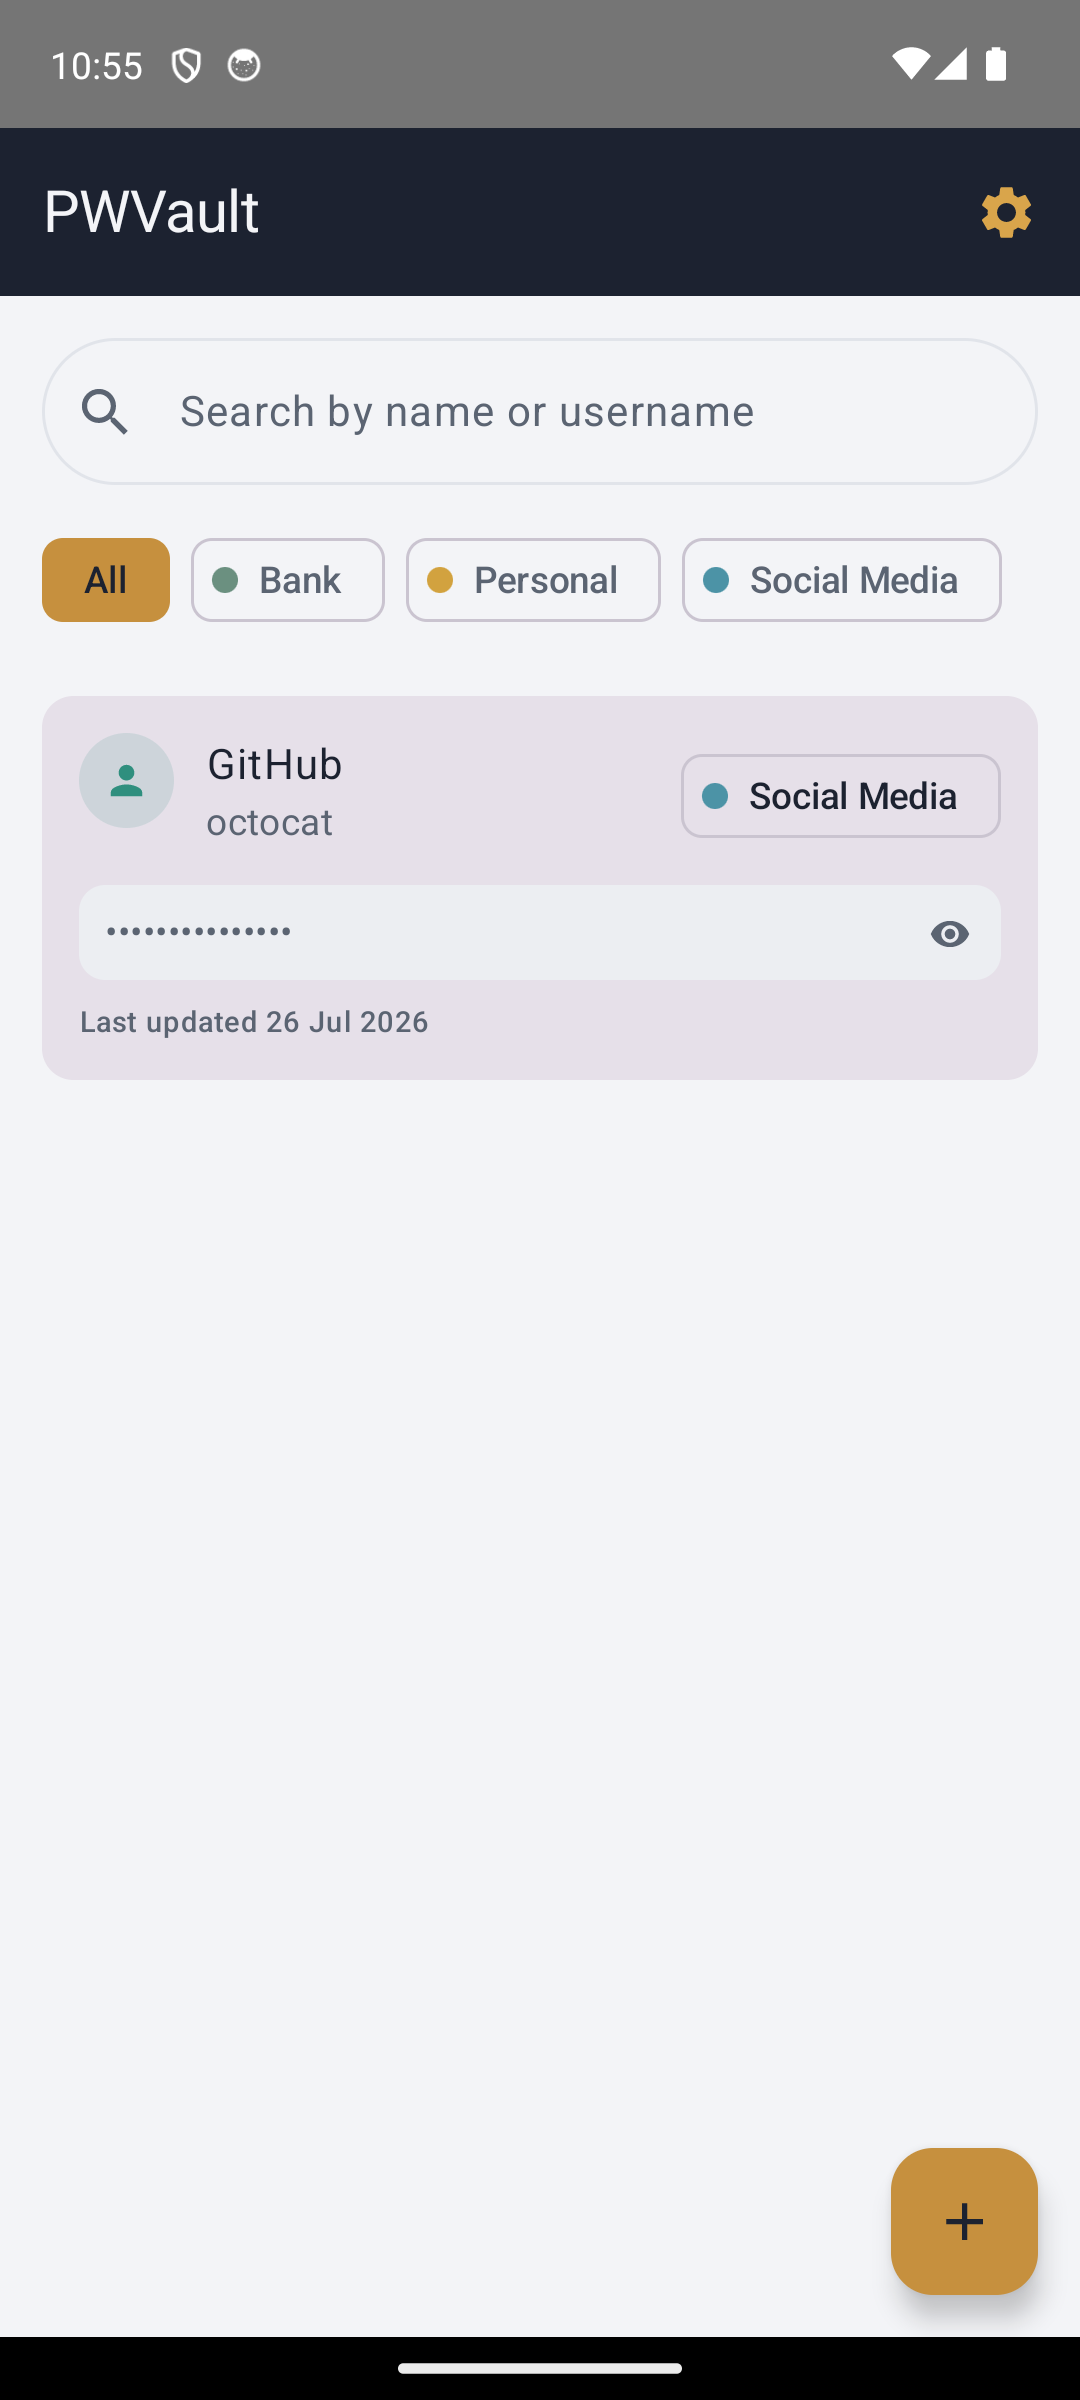
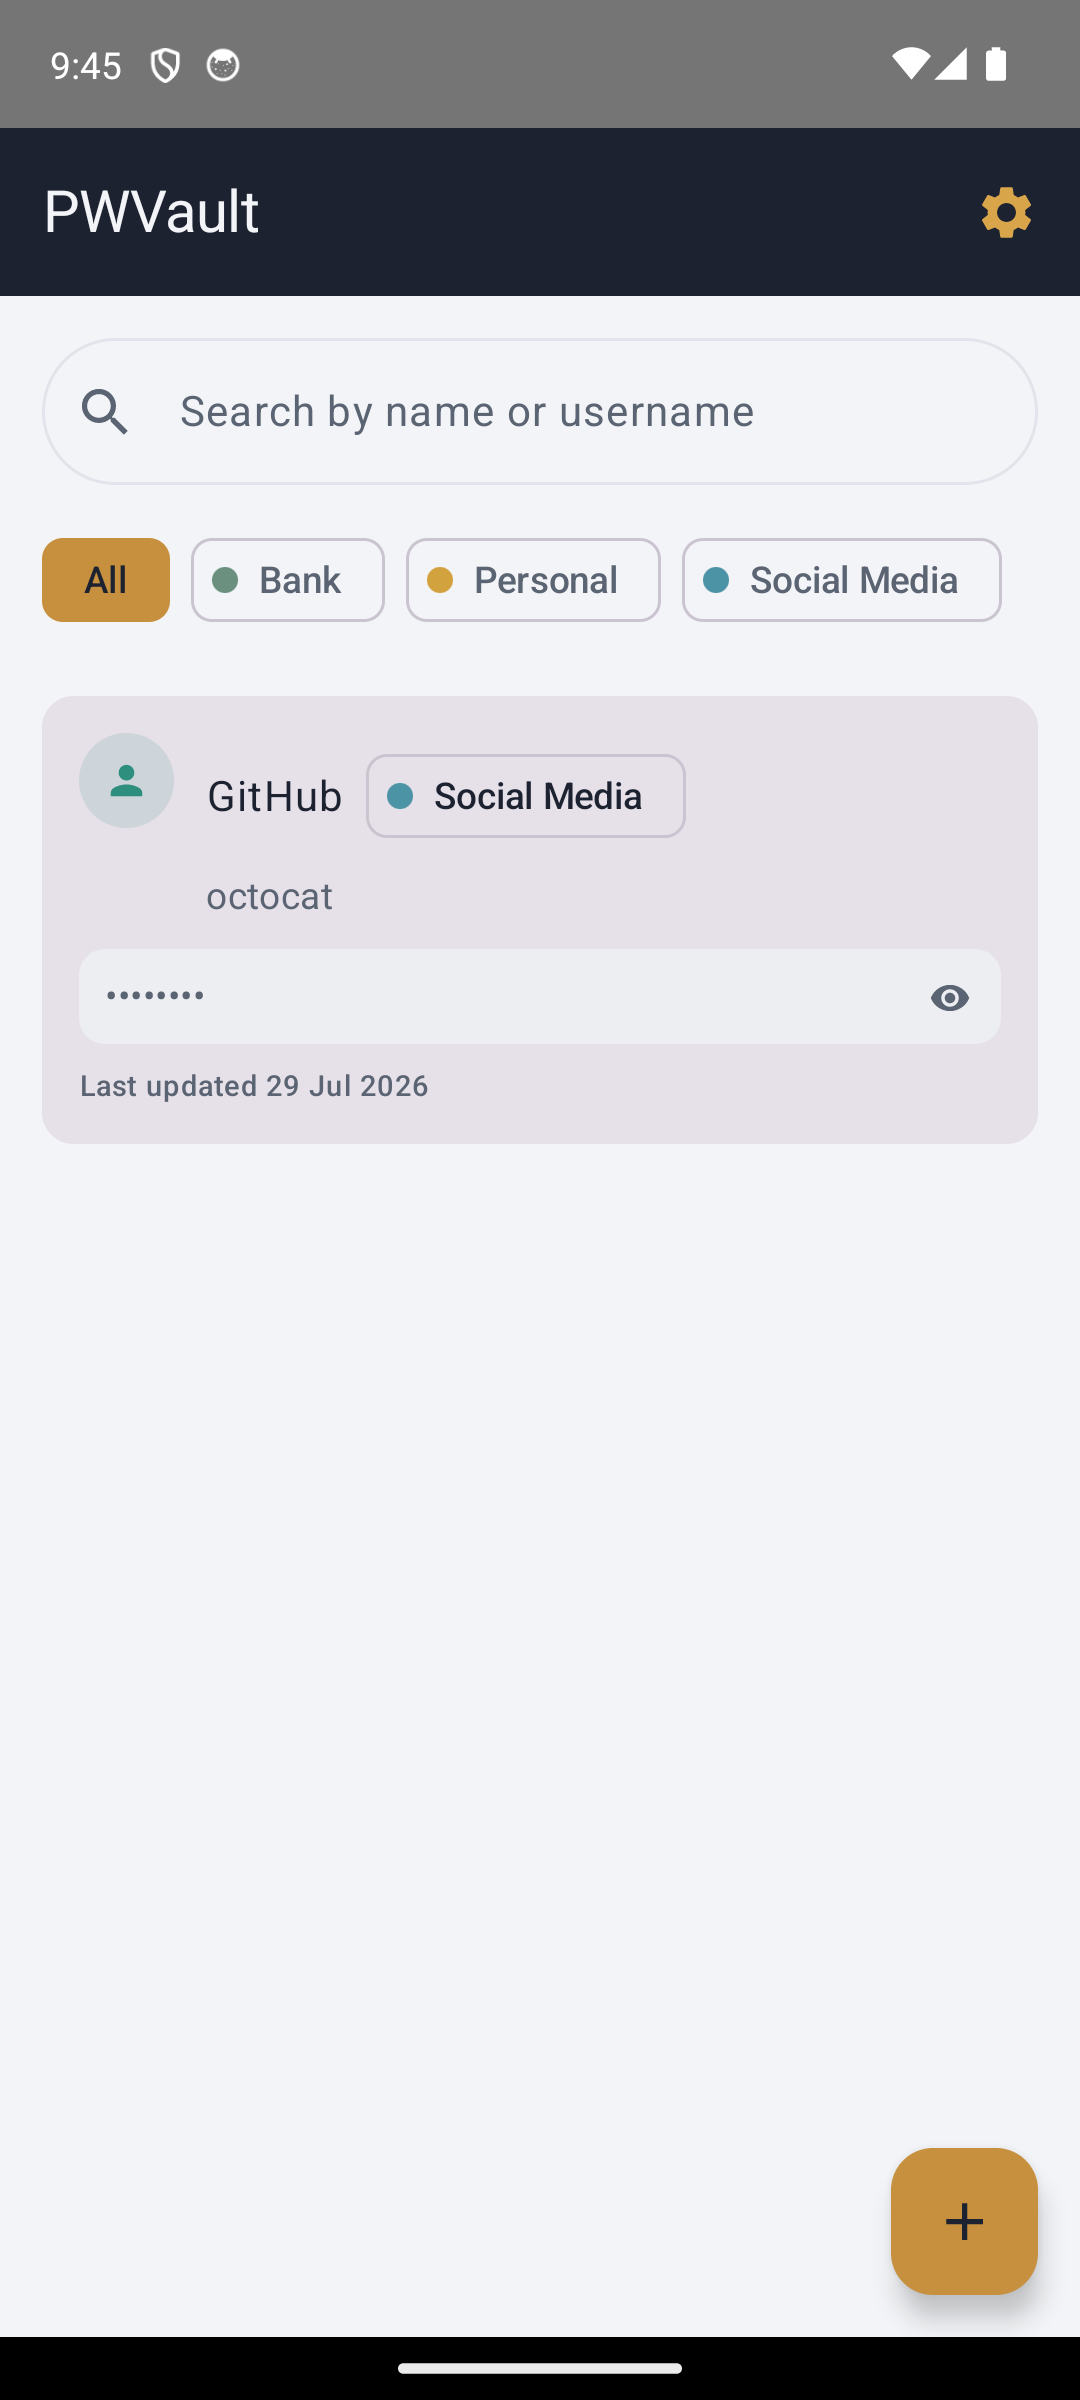
fix: enforce single tag per vault item, restore same-row list layout

diff --git a/app/src/main/java/com/pwvault/app/ui/vault/VaultViewModel.kt b/app/src/main/java/com/pwvault/app/ui/vault/VaultViewModel.kt
@@ -54,7 +54,7 @@ sealed interface VaultUiState {
         val editingId: Long? = null,
         val initial: VaultItem? = null,
         val availableTags: List<Tag> = emptyList(),
-        val selectedTagIds: Set<Long> = emptySet(),
+        val selectedTagId: Long? = null,
         val error: VaultFormError? = null,
         val busy: Boolean = false,
     ) : VaultUiState
@@ -142,7 +142,7 @@ class VaultViewModel
                 if (tagFilterIds.isEmpty()) {
                     searchFiltered
                 } else {
-                    searchFiltered.filter { item -> item.tags.any { it.id in tagFilterIds } }
+                    searchFiltered.filter { item -> item.tag?.id?.let { it in tagFilterIds } ?: false }
                 }
             return VaultUiState.ItemList(
                 items = tagFiltered,
@@ -175,15 +175,14 @@ class VaultViewModel
                     editingId = item.id,
                     initial = item,
                     availableTags = availableTags,
-                    selectedTagIds = item.tags.map { it.id }.toSet(),
+                    selectedTagId = item.tag?.id,
                 )
         }
 
-        fun toggleTagSelected(tagId: Long) {
+        fun selectTag(tagId: Long) {
             val form = _state.value as? VaultUiState.ItemForm ?: return
-            val selected =
-                if (tagId in form.selectedTagIds) form.selectedTagIds - tagId else form.selectedTagIds + tagId
-            _state.value = form.copy(selectedTagIds = selected)
+            val selected = if (form.selectedTagId == tagId) null else tagId
+            _state.value = form.copy(selectedTagId = selected)
         }
 
         fun openDetail(item: VaultItem) {
@@ -224,6 +223,7 @@ class VaultViewModel
             viewModelScope.launch {
                 val now = System.currentTimeMillis()
                 val existing = form.initial
+                val selectedTag = form.availableTags.find { it.id == form.selectedTagId }
                 val itemId =
                     if (existing != null) {
                         // Type is fixed once an item is created — always keep existing.type here,
@@ -235,6 +235,7 @@ class VaultViewModel
                                 password = input.password,
                                 url = input.url,
                                 note = input.note,
+                                tag = selectedTag,
                                 updatedAt = now,
                             ),
                         )
@@ -252,12 +253,12 @@ class VaultViewModel
                                 password = if (isNote) "" else input.password,
                                 url = if (isNote) "" else input.url,
                                 note = input.note,
+                                tag = selectedTag,
                                 createdAt = now,
                                 updatedAt = now,
                             ),
                         )
                     }
-                repository.setItemTags(itemId, form.selectedTagIds)
                 repository.setCustomFields(
                     itemId,
                     input.customFields

diff --git a/app/src/main/java/com/pwvault/app/ui/vault/VaultScreen.kt b/app/src/main/java/com/pwvault/app/ui/vault/VaultScreen.kt
@@ -199,7 +199,7 @@ fun VaultScreen(
                         state = vaultState,
                         onSave = viewModel::save,
                         onCancel = viewModel::backToList,
-                        onToggleTag = viewModel::toggleTagSelected,
+                        onSelectTag = viewModel::selectTag,
                     )
                 is VaultUiState.DeleteConfirm ->
                     AlertDialog(
@@ -381,17 +381,8 @@ private fun VaultItemCard(
                             overflow = TextOverflow.Ellipsis,
                             modifier = Modifier.weight(1f, fill = false),
                         )
-                        if (item.tags.isNotEmpty()) {
-                            Row(
-                                modifier =
-                                    Modifier
-                                        .horizontalScroll(rememberScrollState())
-                                        .padding(start = 8.dp),
-                            ) {
-                                item.tags.forEach { tag ->
-                                    TagChip(tag = tag, modifier = Modifier.padding(start = 4.dp))
-                                }
-                            }
+                        item.tag?.let { tag ->
+                            TagChip(tag = tag, modifier = Modifier.padding(start = 8.dp))
                         }
                     }
                     if (item.username.isNotEmpty()) {
@@ -399,7 +390,9 @@ private fun VaultItemCard(
                             text = item.username,
                             style = MaterialTheme.typography.bodyMedium,
                             color = MaterialTheme.colorScheme.onSurfaceVariant,
-                            modifier = Modifier.fillMaxWidth(),
+                            maxLines = 1,
+                            overflow = TextOverflow.Ellipsis,
+                            modifier = Modifier.fillMaxWidth().padding(top = 4.dp),
                         )
                     }
                 }

diff --git a/app/src/main/java/com/pwvault/app/data/VaultDatabase.kt b/app/src/main/java/com/pwvault/app/data/VaultDatabase.kt
@@ -9,10 +9,9 @@ import androidx.sqlite.db.SupportSQLiteDatabase
     entities = [
         VaultItemEntity::class,
         TagEntity::class,
-        VaultItemTagCrossRef::class,
         CustomFieldEntity::class,
     ],
-    version = 6,
+    version = 7,
 )
 abstract class VaultDatabase : RoomDatabase() {
     abstract fun vaultItemDao(): VaultItemDao
@@ -25,5 +24,26 @@ val MIGRATION_5_6 =
     object : Migration(5, 6) {
         override fun migrate(db: SupportSQLiteDatabase) {
             db.execSQL("DROP TABLE IF EXISTS password_templates")
+        }
+    }
+
+/**
+ * Vault items now carry a single tag instead of many. Every real vault seen so far only ever
+ * assigns one tag per item, so this keeps the first (arbitrary if duplicates exist) cross-ref row
+ * per item and drops the rest, then removes the now-unused many-to-many table.
+ */
+val MIGRATION_6_7 =
+    object : Migration(6, 7) {
+        override fun migrate(db: SupportSQLiteDatabase) {
+            db.execSQL("ALTER TABLE vault_items ADD COLUMN tagId INTEGER REFERENCES tags(id) ON DELETE SET NULL")
+            db.execSQL(
+                """
+                UPDATE vault_items SET tagId = (
+                    SELECT tagId FROM vault_item_tag_cross_ref WHERE vaultItemId = vault_items.id LIMIT 1
+                )
+                """.trimIndent(),
+            )
+            db.execSQL("CREATE INDEX IF NOT EXISTS index_vault_items_tagId ON vault_items(tagId)")
+            db.execSQL("DROP TABLE IF EXISTS vault_item_tag_cross_ref")
         }
     }

diff --git a/app/src/main/java/com/pwvault/app/ui/vault/TagChip.kt b/app/src/main/java/com/pwvault/app/ui/vault/TagChip.kt
@@ -3,15 +3,19 @@ package com.pwvault.app.ui.vault
 import androidx.compose.foundation.background
 import androidx.compose.foundation.layout.Box
 import androidx.compose.foundation.layout.size
+import androidx.compose.foundation.layout.widthIn
 import androidx.compose.foundation.shape.CircleShape
 import androidx.compose.material3.AssistChip
 import androidx.compose.material3.Text
 import androidx.compose.runtime.Composable
 import androidx.compose.ui.Modifier
 import androidx.compose.ui.draw.clip
+import androidx.compose.ui.text.style.TextOverflow
 import androidx.compose.ui.unit.dp
 import com.pwvault.app.domain.Tag
 import com.pwvault.app.ui.theme.tagColor
+
+private val TAG_CHIP_MAX_LABEL_WIDTH = 96.dp
 
 @Composable
 fun TagColorDot(
@@ -29,7 +33,14 @@ fun TagChip(
 ) {
     AssistChip(
         onClick = {},
-        label = { Text(tag.name) },
+        label = {
+            Text(
+                text = tag.name,
+                maxLines = 1,
+                overflow = TextOverflow.Ellipsis,
+                modifier = Modifier.widthIn(max = TAG_CHIP_MAX_LABEL_WIDTH),
+            )
+        },
         leadingIcon = { TagColorDot(tag.id) },
         modifier = modifier,
     )

diff --git a/app/src/main/java/com/pwvault/app/ui/vault/VaultItemFormScreen.kt b/app/src/main/java/com/pwvault/app/ui/vault/VaultItemFormScreen.kt
@@ -51,7 +51,7 @@ fun VaultItemFormScreen(
     state: VaultUiState.ItemForm,
     onSave: (VaultItemFormInput) -> Unit,
     onCancel: () -> Unit,
-    onToggleTag: (Long) -> Unit,
+    onSelectTag: (Long) -> Unit,
 ) {
     // No type picker in this form any more — every new item is Login. An existing Note item being
     // edited keeps its own type (read from state.initial), so it still renders its Note-only fields
@@ -170,8 +170,8 @@ fun VaultItemFormScreen(
                 Row(modifier = Modifier.horizontalScroll(rememberScrollState()).padding(top = 8.dp)) {
                     state.availableTags.forEach { tag ->
                         FilterChip(
-                            selected = tag.id in state.selectedTagIds,
-                            onClick = { onToggleTag(tag.id) },
+                            selected = tag.id == state.selectedTagId,
+                            onClick = { onSelectTag(tag.id) },
                             label = { Text(tag.name) },
                             leadingIcon = { TagColorDot(tag.id) },
                             modifier = Modifier.padding(end = 8.dp),

diff --git a/app/src/main/java/com/pwvault/app/data/VaultItemEntity.kt b/app/src/main/java/com/pwvault/app/data/VaultItemEntity.kt
@@ -1,11 +1,24 @@
 package com.pwvault.app.data
 
 import androidx.room.Entity
+import androidx.room.ForeignKey
+import androidx.room.Index
 import androidx.room.PrimaryKey
 import com.pwvault.app.domain.VaultItem
 import com.pwvault.app.domain.VaultItemType
 
-@Entity(tableName = "vault_items")
+@Entity(
+    tableName = "vault_items",
+    foreignKeys = [
+        ForeignKey(
+            entity = TagEntity::class,
+            parentColumns = ["id"],
+            childColumns = ["tagId"],
+            onDelete = ForeignKey.SET_NULL,
+        ),
+    ],
+    indices = [Index("tagId")],
+)
 data class VaultItemEntity(
     @PrimaryKey(autoGenerate = true)
     val id: Long = 0,
@@ -17,6 +30,7 @@ data class VaultItemEntity(
     val note: String,
     val createdAt: Long,
     val updatedAt: Long,
+    val tagId: Long? = null,
 )
 
 fun VaultItemEntity.toDomain(): VaultItem =
@@ -43,4 +57,5 @@ fun VaultItem.toEntity(): VaultItemEntity =
         note = note,
         createdAt = createdAt,
         updatedAt = updatedAt,
+        tagId = tag?.id,
     )

diff --git a/app/src/main/java/com/pwvault/app/ui/vault/VaultItemDetailScreen.kt b/app/src/main/java/com/pwvault/app/ui/vault/VaultItemDetailScreen.kt
@@ -1,7 +1,6 @@
 package com.pwvault.app.ui.vault
 
 import androidx.compose.foundation.background
-import androidx.compose.foundation.horizontalScroll
 import androidx.compose.foundation.layout.Column
 import androidx.compose.foundation.layout.Row
 import androidx.compose.foundation.layout.fillMaxSize
@@ -152,11 +151,9 @@ fun VaultItemDetailScreen(
                 CustomFieldsSection(customFields = state.item.customFields)
             }
 
-            if (state.item.tags.isNotEmpty()) {
-                Row(modifier = Modifier.horizontalScroll(rememberScrollState()).padding(top = 16.dp)) {
-                    state.item.tags.forEach { tag ->
-                        TagChip(tag = tag, modifier = Modifier.padding(end = 8.dp))
-                    }
+            state.item.tag?.let { tag ->
+                Row(modifier = Modifier.padding(top = 16.dp)) {
+                    TagChip(tag = tag)
                 }
             }
 

diff --git a/app/src/main/java/com/pwvault/app/data/VaultItemWithDetails.kt b/app/src/main/java/com/pwvault/app/data/VaultItemWithDetails.kt
@@ -1,7 +1,6 @@
 package com.pwvault.app.data
 
 import androidx.room.Embedded
-import androidx.room.Junction
 import androidx.room.Relation
 import com.pwvault.app.domain.VaultItem
 
@@ -9,11 +8,10 @@ data class VaultItemWithDetails(
     @Embedded
     val item: VaultItemEntity,
     @Relation(
-        parentColumn = "id",
+        parentColumn = "tagId",
         entityColumn = "id",
-        associateBy = Junction(VaultItemTagCrossRef::class, parentColumn = "vaultItemId", entityColumn = "tagId"),
     )
-    val tags: List<TagEntity>,
+    val tag: TagEntity?,
     @Relation(
         parentColumn = "id",
         entityColumn = "vaultItemId",
@@ -23,6 +21,6 @@ data class VaultItemWithDetails(
 
 fun VaultItemWithDetails.toDomain(): VaultItem =
     item.toDomain().copy(
-        tags = tags.map { it.toDomain() },
+        tag = tag?.toDomain(),
         customFields = customFields.map { it.toDomain() },
     )

diff --git a/app/src/main/java/com/pwvault/app/data/VaultItemDao.kt b/app/src/main/java/com/pwvault/app/data/VaultItemDao.kt
@@ -31,21 +31,6 @@ interface VaultItemDao {
     @Delete
     suspend fun delete(item: VaultItemEntity)
 
-    @Query("DELETE FROM vault_item_tag_cross_ref WHERE vaultItemId = :itemId")
-    suspend fun clearTags(itemId: Long)
-
-    @Insert
-    suspend fun insertTagCrossRefs(refs: List<VaultItemTagCrossRef>)
-
-    @Transaction
-    suspend fun setTagsForItem(
-        itemId: Long,
-        tagIds: List<Long>,
-    ) {
-        clearTags(itemId)
-        insertTagCrossRefs(tagIds.map { VaultItemTagCrossRef(vaultItemId = itemId, tagId = it) })
-    }
-
     @Query("DELETE FROM custom_fields WHERE vaultItemId = :itemId")
     suspend fun clearCustomFields(itemId: Long)
 

diff --git a/app/src/main/java/com/pwvault/app/data/VaultFileManager.kt b/app/src/main/java/com/pwvault/app/data/VaultFileManager.kt
@@ -70,7 +70,7 @@ class VaultFileManager(
                     // wipe that vault the next time the schema version changes. Every version bump from 5
                     // onward must ship an explicit Room Migration that preserves existing rows — a missing
                     // Migration should surface as a loud crash (fixable), never a silent data loss.
-                    .addMigrations(MIGRATION_5_6)
+                    .addMigrations(MIGRATION_5_6, MIGRATION_6_7)
                     .addCallback(
                         object : RoomDatabase.Callback() {
                             override fun onCreate(db: SupportSQLiteDatabase) {

diff --git a/app/src/main/java/com/pwvault/app/export/CsvExporter.kt b/app/src/main/java/com/pwvault/app/export/CsvExporter.kt
@@ -16,7 +16,7 @@ class CsvExporter {
                     item.password,
                     item.url,
                     item.note,
-                    item.tags.joinToString(";") { it.name },
+                    item.tag?.name.orEmpty(),
                     item.customFields.joinToString(";") { "${it.label}:${it.value}" },
                 )
             }

diff --git a/app/src/main/java/com/pwvault/app/data/VaultItemRepository.kt b/app/src/main/java/com/pwvault/app/data/VaultItemRepository.kt
@@ -27,11 +27,6 @@ class VaultItemRepository(
         autoBackupWriter.scheduleBackup()
     }
 
-    suspend fun setItemTags(
-        itemId: Long,
-        tagIds: Set<Long>,
-    ) = dao.setTagsForItem(itemId, tagIds.toList())
-
     suspend fun setCustomFields(
         itemId: Long,
         customFields: List<CustomField>,
